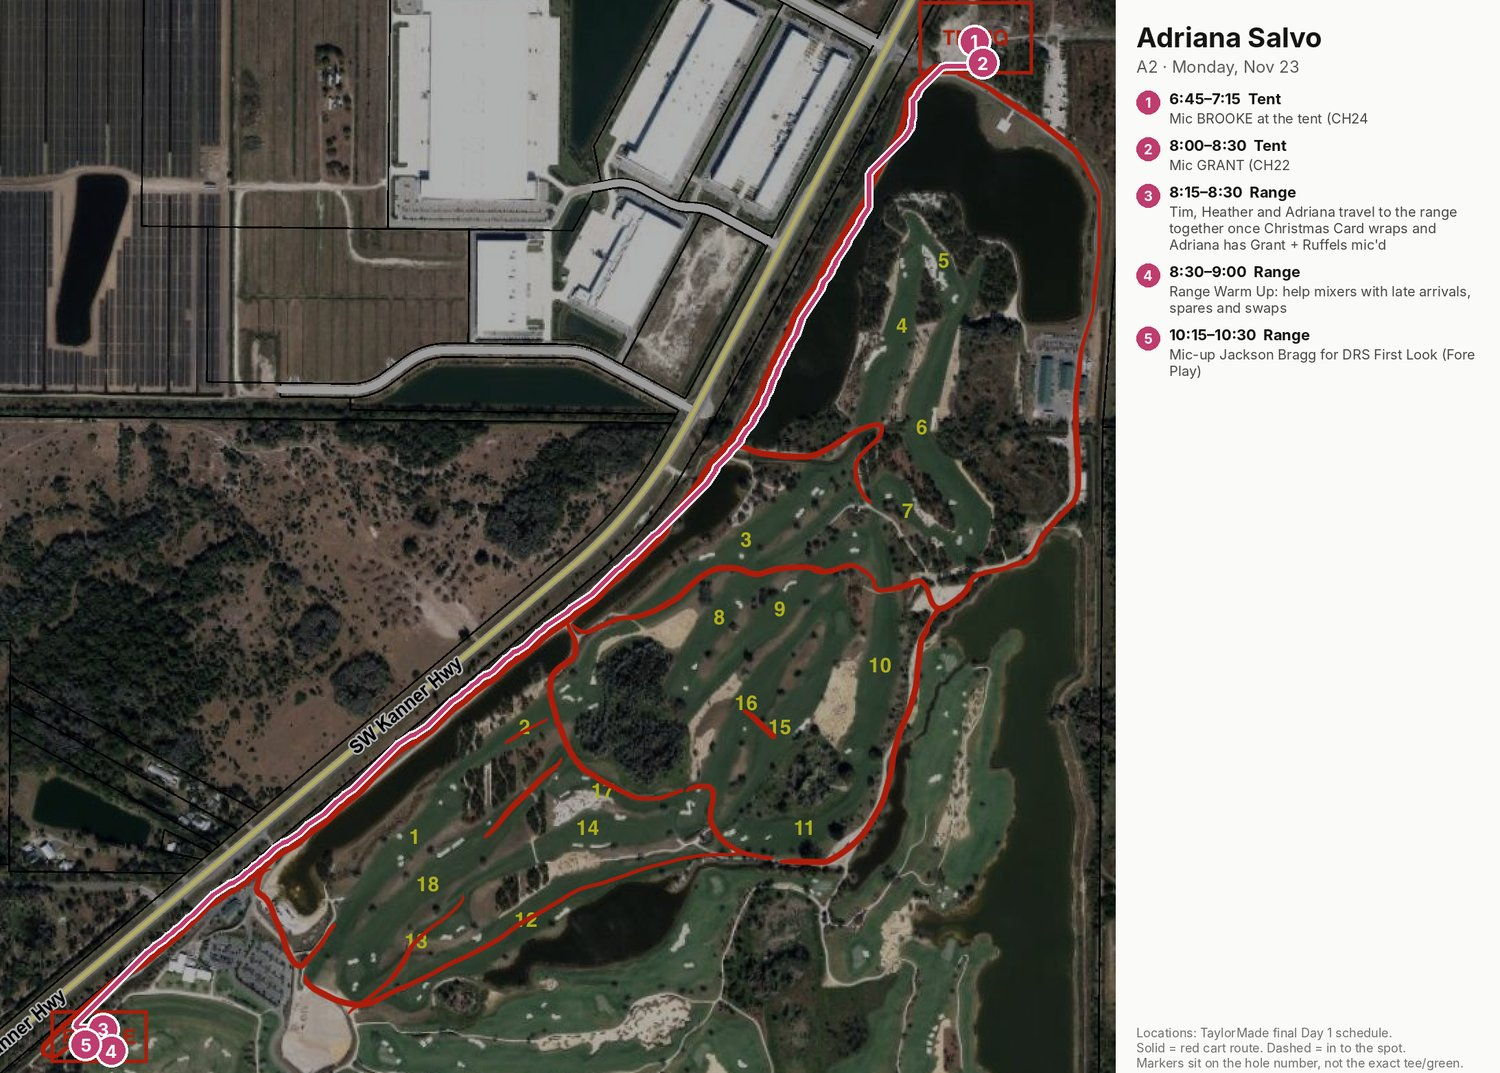
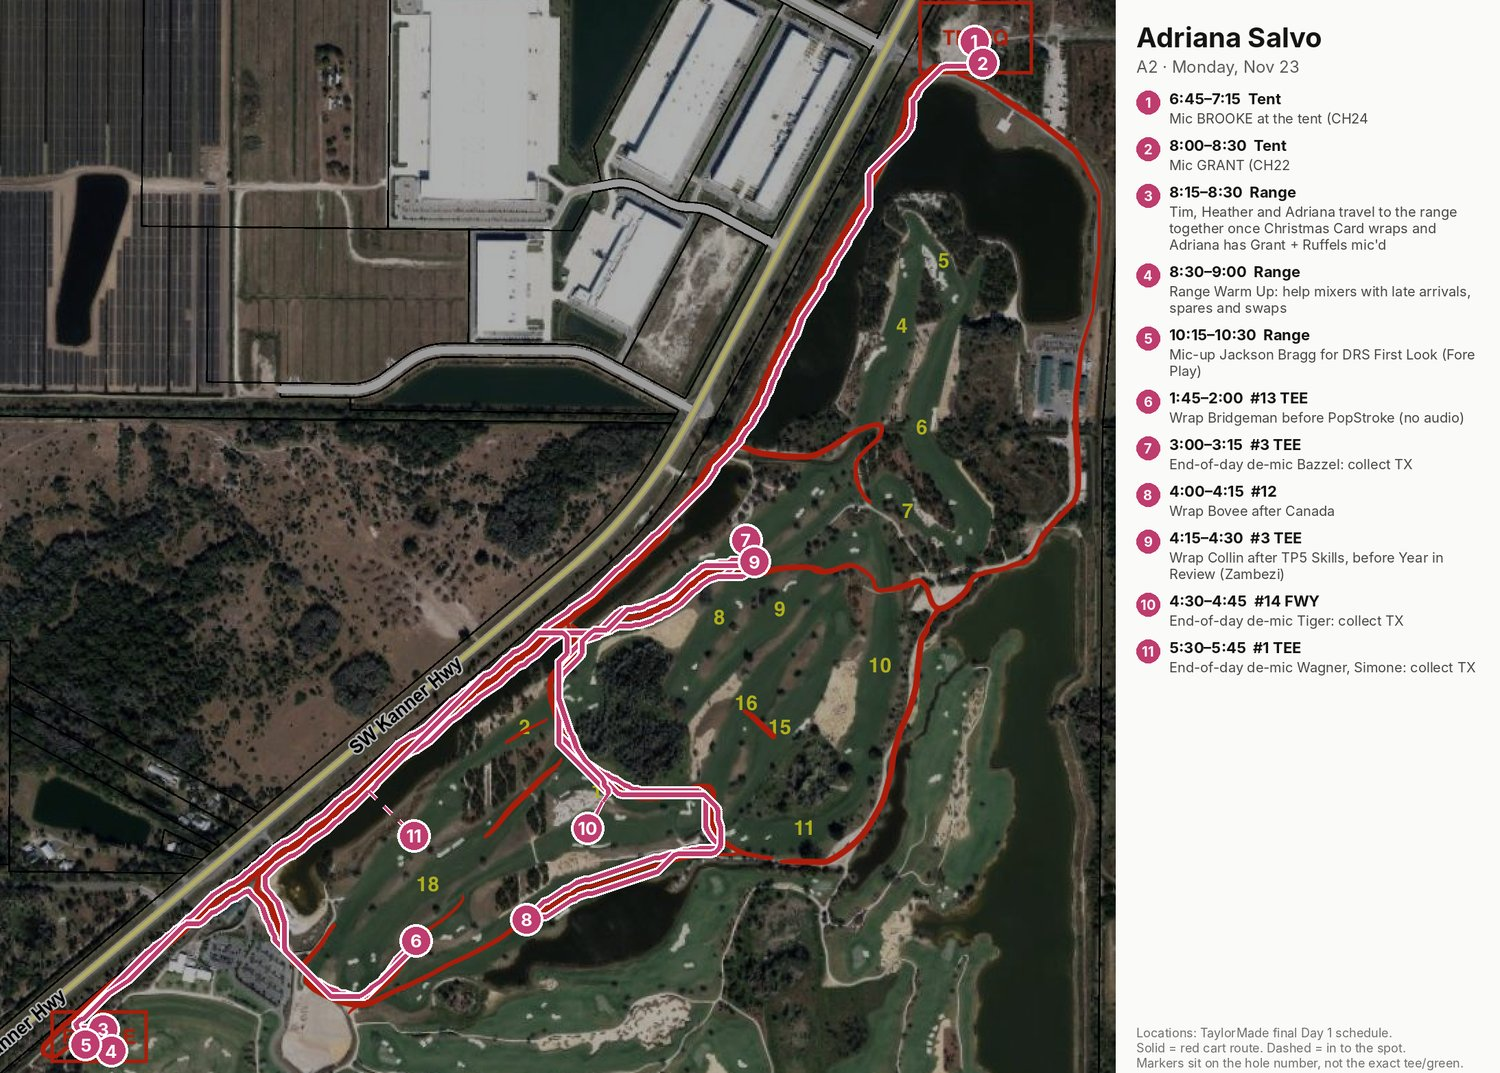
End-of-day de-mics with locations + team; sets marked 'END: A2 de-mics X here'; A2 routes include pickups
Claude-Session: https://claude.ai/code/session_01Cu9tCEs3nu2uXZXxK9FtRu

diff --git a/index.html b/index.html
@@ -518,24 +518,25 @@ const A2EV={
     ["Mic-up Tiger",705,720,["Tiger"],"mic",1],
     ["Fallback if Zambezi says no: Re-mic Rory after TP5 MCVs",720,735,["Rory"],"chg",1],
     ["Fallback if Zambezi says no: Re-mic Collin after FIF MCV",750,765,["Collin"],"chg",1],
-    ["Wrap Bridgeman before PopStroke (no audio)",825,840,["Jacob"],"wrap",1],
+    ["Wrap Bridgeman before PopStroke (no audio) · on set with Fore Play · Andy @ #13 TEE",825,840,["Jacob"],"wrap",1],
     ["Fallback if Zambezi says no: De-mic Charley before Chosen MCV (Zambezi)",825,840,["Charley"],"chg",1],
     ["Fallback if Zambezi says no: De-mic Tommy before TP5 & Fairways DOC (Zambezi)",810,825,["Tommy"],"chg",1],
     ["Fallback if Zambezi says no: Re-mic Tommy after Fairways DOC, before Bag Swap",900,915,["Tommy"],"chg",1],
-    ["Wrap Collin after TP5 Skills, before Year in Review (Zambezi)",975,990,["Collin"],"wrap",1],
-    ["Wrap: de-mic, collect TX",900,915,["Brian"],"wrap",1],
-    ["Wrap: de-mic, collect TX",990,1005,["Keith"],"wrap",1],
+    ["Wrap Collin after TP5 Skills, before Year in Review (Zambezi) · on set with Bravo · Joel @ #3 TEE",975,990,["Collin"],"wrap",1],
+    ["End-of-day de-mic Bazzel: collect TX · on set with Bravo · Joel @ #3 TEE",900,915,["Brian"],"wrap",1],
+    ["End-of-day de-mic Sbarbaro: collect TX · on set with Social · Rick @ #14 FWY",990,1005,["Keith"],"wrap",1],
     ["Mic-up Jackson Bragg for DRS First Look (Fore Play) @ Range",615,630,["Jackson"],"mic",1],
-    ["Wrap Bragg after DRS First Look (TP5 TTB 11:30 is Zambezi)",675,690,["Jackson"],"wrap",1],
-    ["Wrap Bovee after Canada",960,975,["Bovee"],"wrap",1],
+    ["Wrap Bragg after DRS First Look (TP5 TTB 11:30 is Zambezi) · on set with Fore Play · Andy @ Range",675,690,["Jackson"],"wrap",1],
+    ["Wrap Bovee after Canada · on set with Charlie · Brandon @ #12",960,975,["Bovee"],"wrap",1],
     ["Fallback if Zambezi says no: Re-mic Charley after Chosen MCV",900,915,["Charley"],"chg",1],
-    ["Wrap: de-mic, collect TX",930,945,["Rory"],"wrap",1],
-    ["Wrap Scottie before Chosen + FIF MCV (Zambezi, his last set)",960,975,["Scottie"],"wrap",1],
-    ["Wrap: de-mic, collect TX",960,975,["Brooke"],"wrap",1],
-    ["Wrap: de-mic, collect TX",975,990,["Adrian"],"wrap",1],
-    ["Wrap: de-mic, collect TX",990,1005,["Tiger"],"wrap",1],
-    ["Wrap: de-mic, collect TX",1050,1065,["Tommy","Charley","Johnson","Matt"],"wrap",2],
-    ["Wrap: de-mic, collect TX",1080,1095,["Michael","Grant","Ryan"],"wrap",1]
+    ["End-of-day de-mic Rory: collect TX · on set with Bravo · Joel @ #3 TEE",930,945,["Rory"],"wrap",1],
+    ["Wrap Scottie before Chosen + FIF MCV (Zambezi, his last set) · on set with Alpha · Dave @ #13 TEE",960,975,["Scottie"],"wrap",1],
+    ["End-of-day de-mic Brooke: collect TX · on set with Charlie · Brandon @ #12",960,975,["Brooke"],"wrap",1],
+    ["End-of-day de-mic Rietveld: collect TX · on set with Bravo · Joel @ #3 TEE",975,990,["Adrian"],"wrap",1],
+    ["End-of-day de-mic Tiger: collect TX · on set with Social · Rick @ #14 FWY",990,1005,["Tiger"],"wrap",1],
+    ["End-of-day de-mic Tommy, Charley: collect TX · on set with Delta · Michal @ #3 (last hole of Bag Swap Match)",1050,1065,["Tommy", "Charley"],"wrap",1],
+    ["End-of-day de-mic Wagner, Simone: collect TX · on set with Charlie · Brandon @ #1 TEE",1050,1065,["Johnson", "Matt"],"wrap",1],
+    ["End-of-day de-mic Thor, Grant, Ruffels: collect TX · on set with YouTube · Josh @ #3 (last hole of Perfect 9)",1080,1095,["Michael", "Grant", "Ryan"],"wrap",1]
   ],
   d2:[
     ["Mic-up talent at first sets (help DOT vs. NOT, CA/EU Bag Swap)",450,465,["Scottie","Collin","Charley","Brooke","Michael","Haeran","Grant","Ryan","Johnson"],"mic",3],
@@ -548,21 +549,22 @@ const A2EV={
     ["Fallback if Zambezi says no: De-mic Collin before TP5 DOC & Family Testing (Zambezi)",690,705,["Collin"],"chg",1],
     ["Fallback if Zambezi says no: Re-mic Collin before Flight Club",780,795,["Collin"],"chg",1],
     ["Fallback if Zambezi says no: Re-mic Brooke after FIF MCV",735,750,["Brooke"],"chg",1],
-    ["Wrap: de-mic, collect TX",780,795,["Scottie"],"wrap",1],
-    ["Wrap: de-mic, collect TX",840,855,["Collin"],"wrap",1],
+    ["End-of-day de-mic Scottie: collect TX · on set with YouTube · Josh @ #11 (last hole of 2v2 Match / SKY + team)",780,795,["Scottie"],"wrap",1],
+    ["End-of-day de-mic Collin: collect TX · on set with Alpha · Dave @ #13 TEE",840,855,["Collin"],"wrap",1],
     ["Fallback if Zambezi says no: De-mic Grant before Chosen MCV (Zambezi)",780,795,["Grant"],"chg",1],
     ["Fallback if Zambezi says no: Re-mic Grant after Chosen MCV",855,870,["Grant"],"chg",1],
     ["Mic-up Bazzel before Canada",570,585,["Brian"],"mic",1],
-    ["Wrap: de-mic, collect TX",795,810,["Brian"],"wrap",1],
+    ["End-of-day de-mic Bazzel: collect TX · on set with Delta · Michal @ #12",795,810,["Brian"],"wrap",1],
     ["Mic-up Rietveld for Mini Camp",765,780,["Adrian"],"mic",1],
     ["Mic-up Bragg + Cory Johnson for TP5 Speed Testing",855,870,["Jackson","Cory","Matt"],"mic",1],
-    ["Wrap: de-mic, collect TX",885,900,["Johnson"],"wrap",1],
-    ["Wrap: de-mic, collect TX",945,960,["Brooke"],"wrap",1],
-    ["Wrap: de-mic, collect TX",990,1005,["Charley","Adrian"],"wrap",1],
-    ["Wrap: de-mic, collect TX",975,990,["Tommy"],"wrap",1],
-    ["Wrap: de-mic, collect TX",1005,1020,["Grant","Ryan"],"wrap",1],
-    ["Wrap: de-mic, collect TX",1035,1050,["Haeran"],"wrap",1],
-    ["Wrap: de-mic, collect TX (after TP5 Speed Testing)",1080,1095,["Jacob","Michael","Matt","Jackson","Cory"],"wrap",2]
+    ["End-of-day de-mic Holley: collect TX · on set with Delta · Michal @ #1 GRN",855,870,["James"],"wrap",1],
+    ["End-of-day de-mic Wagner: collect TX · on set with Charlie · Brandon @ #4 TEE",885,900,["Johnson"],"wrap",1],
+    ["End-of-day de-mic Brooke: collect TX · on set with Fore Play · Andy @ #18 (last hole of LPGA (Fore Play))",945,960,["Brooke"],"wrap",1],
+    ["End-of-day de-mic Charley, Rietveld: collect TX · on set with Charlie · Brandon @ Tour Truck",990,1005,["Charley", "Adrian"],"wrap",1],
+    ["End-of-day de-mic Tommy: collect TX · on set with YouTube · Josh @ #6 (last hole of Ruffels w/ Tommy)",975,990,["Tommy"],"wrap",1],
+    ["End-of-day de-mic Grant, Ruffels: collect TX · on set with Fore Play · Andy @ #14 TEE (TBD)",1005,1020,["Grant", "Ryan"],"wrap",1],
+    ["End-of-day de-mic Haeran, Jae: collect TX · on set with Alpha · Dave @ #1",1035,1050,["Haeran","Jae"],"wrap",1],
+    ["End-of-day de-mic Bridgeman, Thor, Simone, Bragg, Cory Johnson: collect TX (after TP5 Speed Testing) · on set with Delta · Michal @ Range",1080,1095,["Jacob", "Michael", "Matt", "Jackson", "Cory"],"wrap",2]
   ]
 };
 /* Scratch's camera units from "TM262151 2026 Crew Assignments" (2026 DAY 1 / DAY 2, columns Alpha–Youtube, read Nov 9).
@@ -584,22 +586,22 @@ const EXTRA={
 /* Locations (@): Day 1 from TaylorMade's final Day 1 schedule; Day 2 from the Day 2 tab of the same file where the set matches. Source note: Day 1 locations from TaylorMade's "2026 Super Shoot Schedule FINAL for audio DAY 1" (Nov 22) */
 const UBLK={
   d1:{
-    alpha:[[510, 540, "Range Warm Up @ Range"], [615, 645, "Grant Fairway Clinic @ #3 FWY"], [705, 750, "Lie Detectors (Charley, Brooke) @ #17 GRN"], [750, 780, "Tiger Talks - Wedge @ #2 GRN"], [780, 810, "Tiger Talks - Driver @ #3 TEE"], [915, 960, "Flight Club (Tiger, Scottie, Wagner) @ #13 TEE"]],
-    bravo:[[510, 540, "Range Warm Up @ Range"], [555, 600, "Flight Club (Charley, Brooke, Wagner) @ #13 TEE"], [735, 810, "Eras Tour - Ball @ #9 FWY"], [825, 900, "Eras Tour - Driver @ #3 TEE"], [915, 975, "Collin / Grant TP5 Skills (Mapes, Jared, Matt W) @ #3 TEE"]],
-    charlie:[[555, 600, "Retail - Holley (Bridgeman, Thor, Holley) · MIC THOR (CH19 · 643.350) + JAMES HOLLEY (CH18 · 642.775) at the start of this set; de-mic Holley at the end @ #1 GRN"], [615, 645, "Retail - Wagner (Bridgeman) @ #1 TEE"], [675, 735, "TCP - Golf Ball (Wagner, Bridgeman) @ #1 TEE"], [765, 810, "Lie Detectors (Tommy, Collin) @ #17 GRN"], [825, 960, "Canada (Brooke; Wagner 1:45–3:00, Bovee 3:15) @ #12"], [975, 1050, "TCP - Driver (Wagner, Simone) @ #1 TEE"]],
-    delta:[[510, 540, "Range Warm Up @ Range"], [555, 600, "DRS First Look @ #3 TEE"], [645, 675, "Lie Detectors - Irons (Scottie, Tommy) @ #10 FWY"], [690, 735, "Tommy's Fairway Clinic @ #3 FWY"], [825, 885, "P-Series First Look @ #9 FWY"], [915, 1050, "Bag Swap Match @ holes 8-9-10-11-17-18-13-14-3"]],
-    foreplay:[[555, 600, "Fore Play Range Warm Up · stay with Fore Play (Barstool talent not mic'd) @ Range"], [630, 675, "DRS First Look (Barstool; first set needing audio) @ Range"], [690, 735, "Ball Fitting w/ Simone @ Range"], [750, 825, "Fore Play - Chase the Ace @ #13 TEE"]],
-    youtube:[[555, 645, "Full Bag + Ball Fitting w/ Simone @ Range"], [660, 705, "Grant vs. Ryan Challenges (Ruffels crew) @ #2 TEE"], [735, 765, "Ruffels w/ Collin (audio only) @ #10-11"], [765, 810, "Ruffels w/ Charley (audio only) @ holes 15-10-11"], [930, 975, "Ruffels w/ Thor · confirm: Thor's column only @ #15/#16 (#12 if Canada is gone)"], [990, 1080, "Perfect 9 (Ruffels crew, Brady, Naro) @ holes 8-9-10-11-17-18-13-14-3"]],
-    social:[[540, 555, "Social Sessions (Scottie) @ Range"], [615, 630, "Social Sessions (Tommy) @ #10 FWY"], [630, 690, "Social Sessions (Brooke solo from 10:15, so head straight over after Tommy; Charley 11:15) @ #14"], [825, 900, "Social Sessions (Grant) @ #10"], [975, 990, "Social Sessions (Tiger, Sbarbaro) @ #14 FWY"]],
+    alpha:[[510, 540, "Range Warm Up @ Range"], [615, 645, "Grant Fairway Clinic @ #3 FWY"], [705, 750, "Lie Detectors (Charley, Brooke) @ #17 GRN"], [750, 780, "Tiger Talks - Wedge @ #2 GRN"], [780, 810, "Tiger Talks - Driver @ #3 TEE"], [915, 960, "Flight Club (Tiger, Scottie, Wagner) · END: A2 de-mics Scottie here @ #13 TEE"]],
+    bravo:[[510, 540, "Range Warm Up @ Range"], [555, 600, "Flight Club (Charley, Brooke, Wagner) @ #13 TEE"], [735, 810, "Eras Tour - Ball @ #9 FWY"], [825, 900, "Eras Tour - Driver · END: A2 de-mics Bazzel, Rory here @ #3 TEE"], [915, 975, "Collin / Grant TP5 Skills (Mapes, Jared, Matt W) · END: A2 de-mics Collin, Rietveld here @ #3 TEE"]],
+    charlie:[[555, 600, "Retail - Holley (Bridgeman, Thor, Holley) · MIC THOR (CH19 · 643.350) + JAMES HOLLEY (CH18 · 642.775) at the start of this set; de-mic Holley at the end @ #1 GRN"], [615, 645, "Retail - Wagner (Bridgeman) @ #1 TEE"], [675, 735, "TCP - Golf Ball (Wagner, Bridgeman) @ #1 TEE"], [765, 810, "Lie Detectors (Tommy, Collin) @ #17 GRN"], [825, 960, "Canada (Brooke; Wagner 1:45–3:00, Bovee 3:15) · END: A2 de-mics Brooke, Bovee here @ #12"], [975, 1050, "TCP - Driver (Wagner, Simone) · END: A2 de-mics Wagner, Simone here @ #1 TEE"]],
+    delta:[[510, 540, "Range Warm Up @ Range"], [555, 600, "DRS First Look @ #3 TEE"], [645, 675, "Lie Detectors - Irons (Scottie, Tommy) @ #10 FWY"], [690, 735, "Tommy's Fairway Clinic @ #3 FWY"], [825, 885, "P-Series First Look @ #9 FWY"], [915, 1050, "Bag Swap Match · END: A2 de-mics Tommy, Charley here @ holes 8-9-10-11-17-18-13-14-3"]],
+    foreplay:[[555, 600, "Fore Play Range Warm Up · stay with Fore Play (Barstool talent not mic'd) @ Range"], [630, 675, "DRS First Look (Barstool; first set needing audio) · END: A2 de-mics Bragg here @ Range"], [690, 735, "Ball Fitting w/ Simone @ Range"], [750, 825, "Fore Play - Chase the Ace · END: A2 de-mics Bridgeman here @ #13 TEE"]],
+    youtube:[[555, 645, "Full Bag + Ball Fitting w/ Simone @ Range"], [660, 705, "Grant vs. Ryan Challenges (Ruffels crew) @ #2 TEE"], [735, 765, "Ruffels w/ Collin (audio only) @ #10-11"], [765, 810, "Ruffels w/ Charley (audio only) @ holes 15-10-11"], [930, 975, "Ruffels w/ Thor · confirm: Thor's column only @ #15/#16 (#12 if Canada is gone)"], [990, 1080, "Perfect 9 (Ruffels crew, Brady, Naro) · END: A2 de-mics Thor, Grant, Ruffels here @ holes 8-9-10-11-17-18-13-14-3"]],
+    social:[[540, 555, "Social Sessions (Scottie) @ Range"], [615, 630, "Social Sessions (Tommy) @ #10 FWY"], [630, 690, "Social Sessions (Brooke solo from 10:15, so head straight over after Tommy; Charley 11:15) @ #14"], [825, 900, "Social Sessions (Grant) @ #10"], [975, 990, "Social Sessions (Tiger, Sbarbaro) · END: A2 de-mics Tiger, Sbarbaro here @ #14 FWY"]],
     echo:[]
   },
   d2:{
-    alpha:[[465,570,"Korea (Haeran + fitter Jae, extra mic) @ #12"],[705,750,"Flight Club (Charley, Haeran, Rietveld) @ #13 TEE"],[795,840,"Flight Club (Collin, Thor, Wagner) @ #13 TEE"],[960,1035,"Korea (Haeran + fitter Jae) @ #1"]],
+    alpha:[[465,570,"Korea (Haeran + fitter Jae, extra mic) @ #12"],[705,750,"Flight Club (Charley, Haeran, Rietveld) @ #13 TEE"],[795,840,"Flight Club (Collin, Thor, Wagner) · END: A2 de-mics Collin here @ #13 TEE"],[960,1035,"Korea (Haeran + fitter Jae) · END: A2 de-mics Haeran, Jae here @ #1"]],
     bravo:[[465,570,"1 Club / Bag Swap Match - CA/EU (Brady, Mapes, Jared) @ holes 18-13-14-17-3-8-9-10-11"],[585,600,"Canada (Brooke; Brady, Mapes, Jared) @ #9"],[795,840,"Mini Camp v2 @ #3 TEE / FWY"],[975,1035,"Team TM vs. Impossible Shots @ #2"]],
-    charlie:[[465,495,"Retail - SS (Wagner) @ #1 TEE"],[510,600,"TCP - Irons @ #1 FWY"],[615,645,"Retail - BH (Wagner) @ #1 TEE"],[660,690,"Retail - CM (Wagner) @ #1 TEE"],[750,780,"Retail - JB (Wagner) @ #1 TEE"],[855,885,"Retail - TF (Wagner) @ #4 TEE"],[960,990,"Adrian Tour Truck (Charley, Rietveld) · no team listed, Brandon covers @ Tour Truck"]],
-    delta:[[465,585,"DOT vs. NOT (+ Naro) @ holes 3-8-9-10-11-17-18-13-14"],[600,645,"Bag Swap Match @ holes 14-17-3"],[645,690,"James / Spider (Haeran, Holley) · Michal covers, straight from Bag Swap (Rick keeps the social) @ #15"],[750,795,"Canada (Brooke, Bazzel; Austin, Aiden, Brady) · Michal covers @ #12"],[810,855,"CG vs. MOI putter fitting (Bridgeman, Holley) · Michal covers (Josh stays with YouTube) @ #1 GRN"],[870,930,"TP5 Speed Testing (Bridgeman, Thor, Simone, Bragg, Cory Johnson) · Michal covers @ Range"],[1050,1080,"TP5 Speed Testing (Bridgeman, Thor, Simone, Bragg, Cory Johnson) · Michal covers @ Range"]],
-    foreplay:[[510,540,"Fore Play w/ Scheffler @ #15"],[600,645,"2v2v2 w/ FP Gamers @ holes 18-13-14"],[660,780,"Fore Play w/ Thor @ holes 3-8-9-10-11-17-18-13-14"],[810,945,"LPGA (Fore Play) @ holes 16-15-10-11-12-13-14-17-18"],[960,1005,"Fore Play: Grant / Ruffels @ #14 TEE (TBD)"]],
-    youtube:[[660,780,"2v2 Match / SKY + team (Scottie, Tommy, Grant, Ruffels) · Scratch YouTube column @ holes 18-13-14-17-3-8-9-10-11"],[900,930,"Ruffels w/ Tommy (YouTube / Ruffels crew) @ holes 4-5-6"]],
+    charlie:[[465,495,"Retail - SS (Wagner) @ #1 TEE"],[510,600,"TCP - Irons @ #1 FWY"],[615,645,"Retail - BH (Wagner) @ #1 TEE"],[660,690,"Retail - CM (Wagner) @ #1 TEE"],[750,780,"Retail - JB (Wagner) @ #1 TEE"],[855,885,"Retail - TF (Wagner) · END: A2 de-mics Wagner here @ #4 TEE"],[960,990,"Adrian Tour Truck (Charley, Rietveld) · no team listed, Brandon covers · END: A2 de-mics Charley, Rietveld here @ Tour Truck"]],
+    delta:[[465,585,"DOT vs. NOT (+ Naro) @ holes 3-8-9-10-11-17-18-13-14"],[600,645,"Bag Swap Match @ holes 14-17-3"],[645,690,"James / Spider (Haeran, Holley) · Michal covers, straight from Bag Swap (Rick keeps the social) @ #15"],[750,795,"Canada (Brooke, Bazzel; Austin, Aiden, Brady) · Michal covers · END: A2 de-mics Bazzel here @ #12"],[810,855,"CG vs. MOI putter fitting (Bridgeman, Holley) · Michal covers (Josh stays with YouTube) · END: A2 de-mics Holley here @ #1 GRN"],[870,930,"TP5 Speed Testing (Bridgeman, Thor, Simone, Bragg, Cory Johnson) · Michal covers @ Range"],[1050,1080,"TP5 Speed Testing (Bridgeman, Thor, Simone, Bragg, Cory Johnson) · Michal covers · END: A2 de-mics Bridgeman, Thor, Simone, Bragg, Cory Johnson here @ Range"]],
+    foreplay:[[510,540,"Fore Play w/ Scheffler @ #15"],[600,645,"2v2v2 w/ FP Gamers @ holes 18-13-14"],[660,780,"Fore Play w/ Thor @ holes 3-8-9-10-11-17-18-13-14"],[810,945,"LPGA (Fore Play) · END: A2 de-mics Brooke here @ holes 16-15-10-11-12-13-14-17-18"],[960,1005,"Fore Play: Grant / Ruffels · END: A2 de-mics Grant, Ruffels here @ #14 TEE (TBD)"]],
+    youtube:[[660,780,"2v2 Match / SKY + team (Scottie, Tommy, Grant, Ruffels) · Scratch YouTube column · END: A2 de-mics Scottie here @ holes 18-13-14-17-3-8-9-10-11"],[900,930,"Ruffels w/ Tommy (YouTube / Ruffels crew) · END: A2 de-mics Tommy here @ holes 4-5-6"]],
     social:[[555,585,"Social Sessions (Tommy) @ #10/11"], [600,645,"Social Sessions (Grant, Ruffels) @ #10/11"], [660,690,"Social Sessions (Bridgeman) · athlete column only @ #11"], [765, 795, "Social Sessions - EU (Charley)"], [855,885,"Social Sessions (Ruffels) · athlete column only @ #1-4"], [915,945,"Social Sessions (Grant) · athlete column only @ #1-4"]],
     echo:[[555,570,"Rotation Station"],[945,960,"Rotation Station"]]
   }
